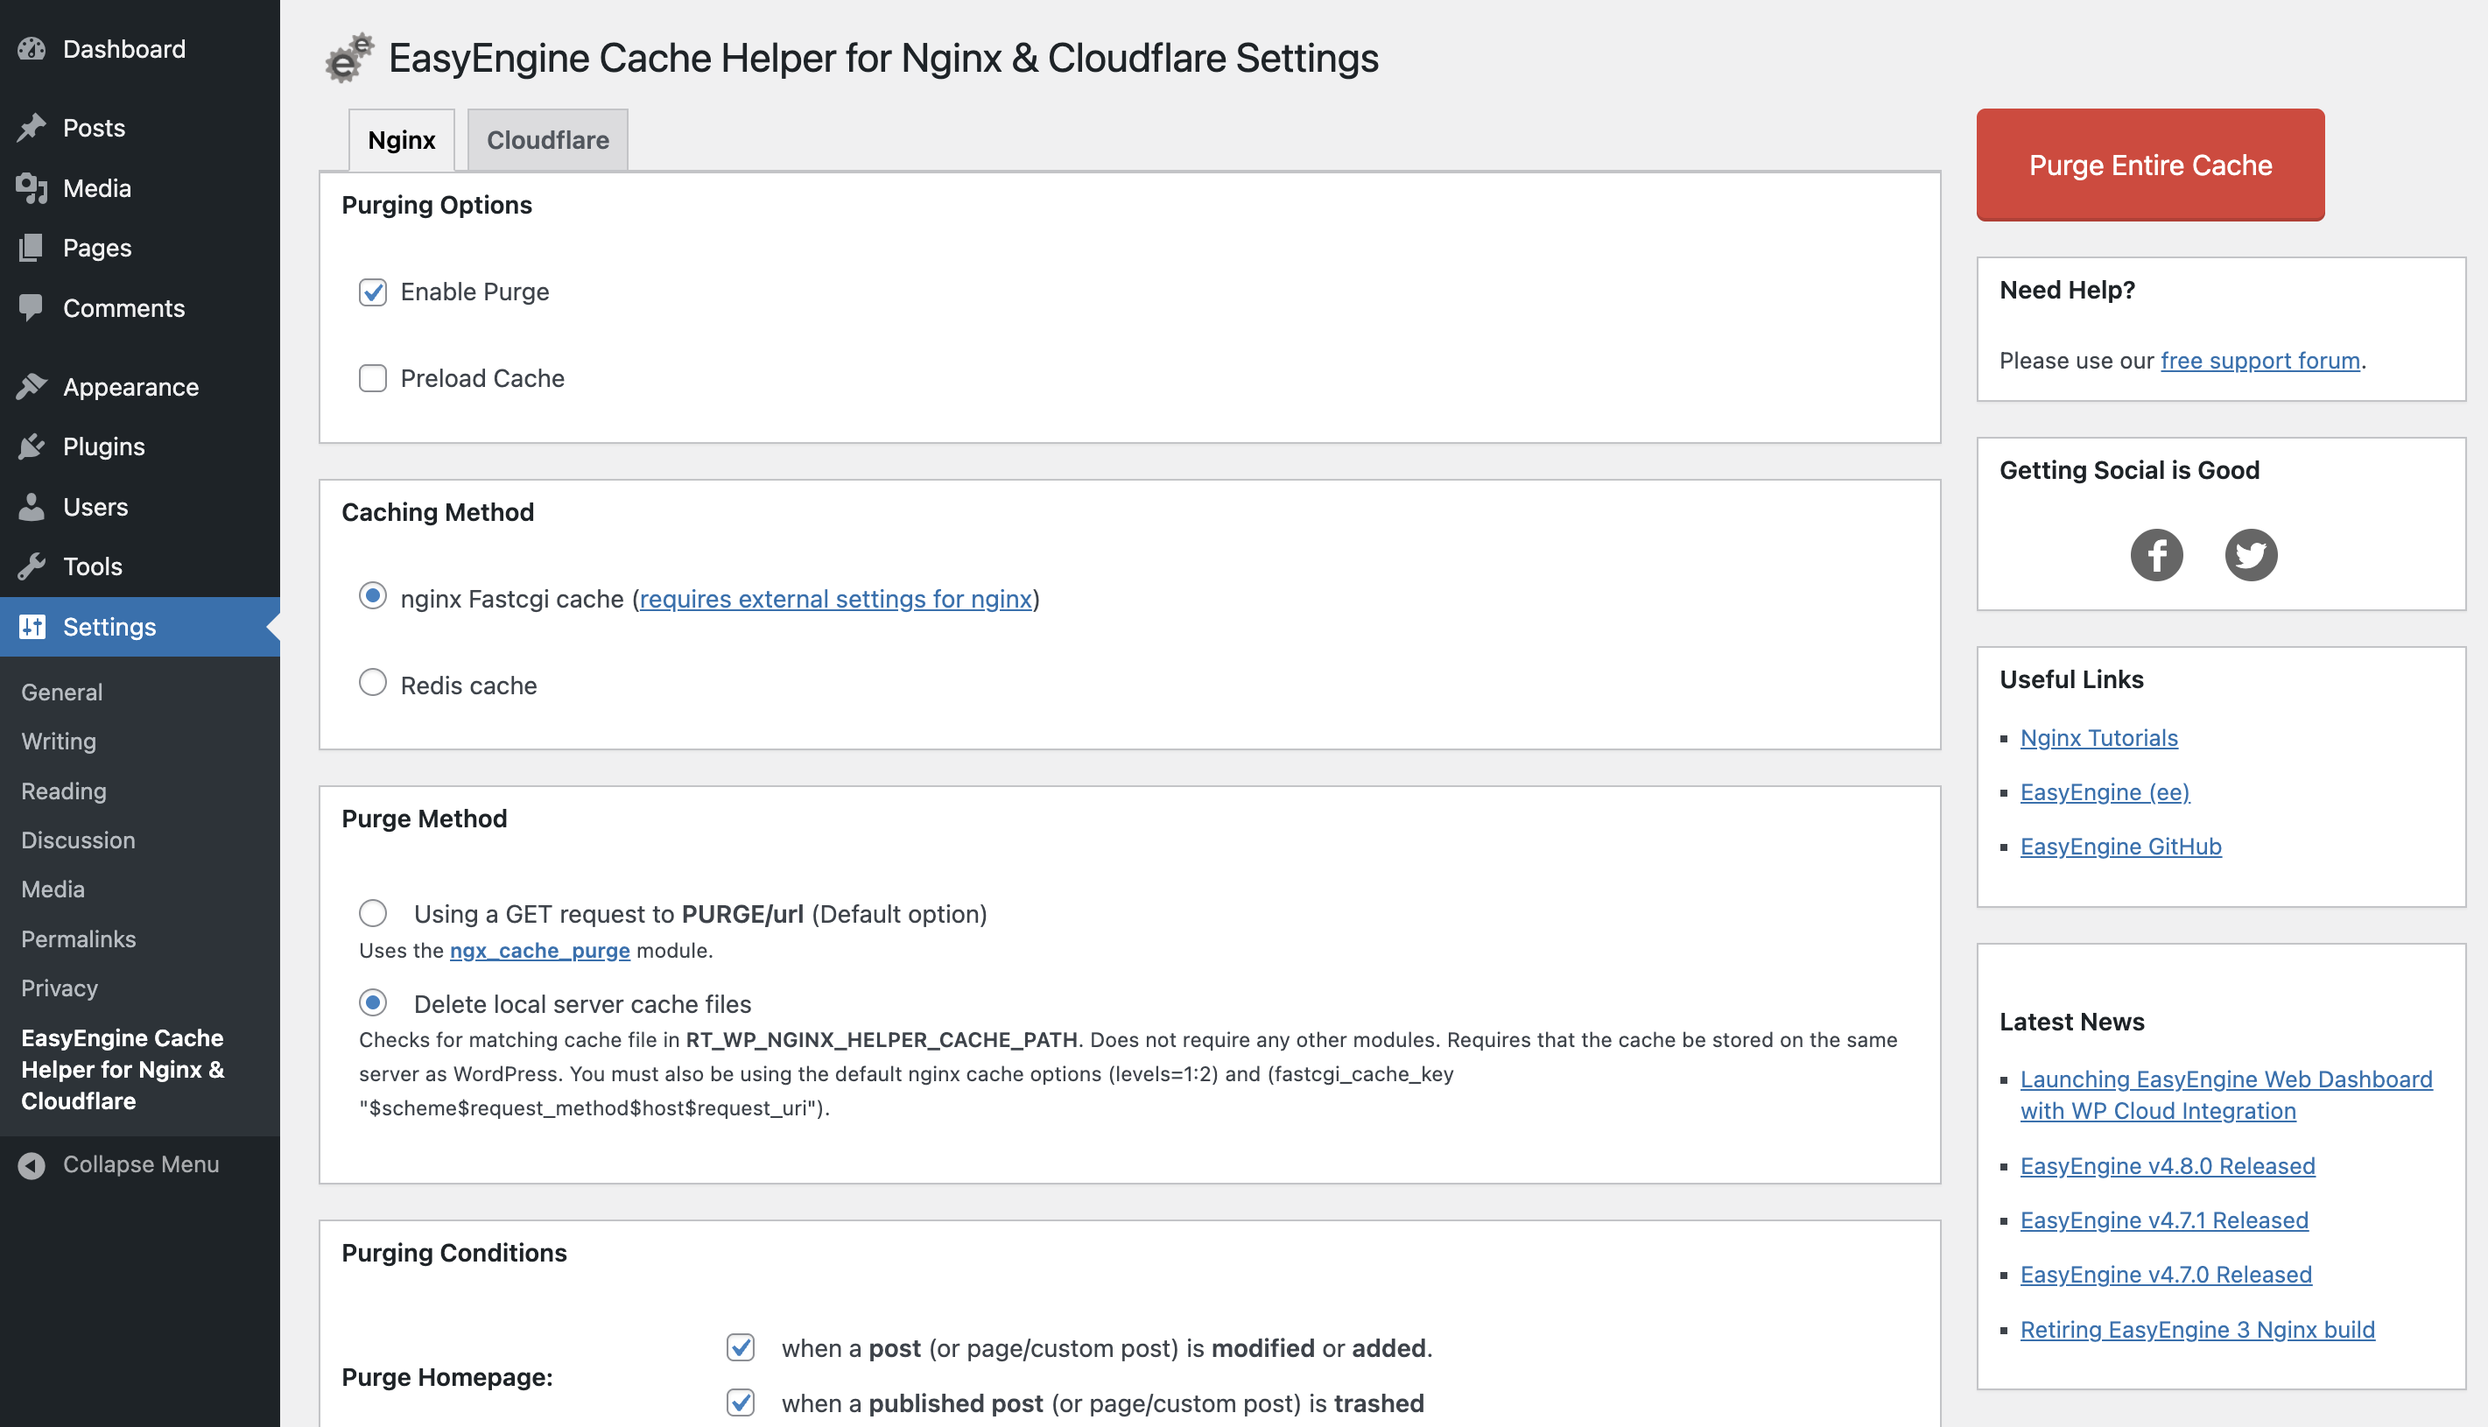
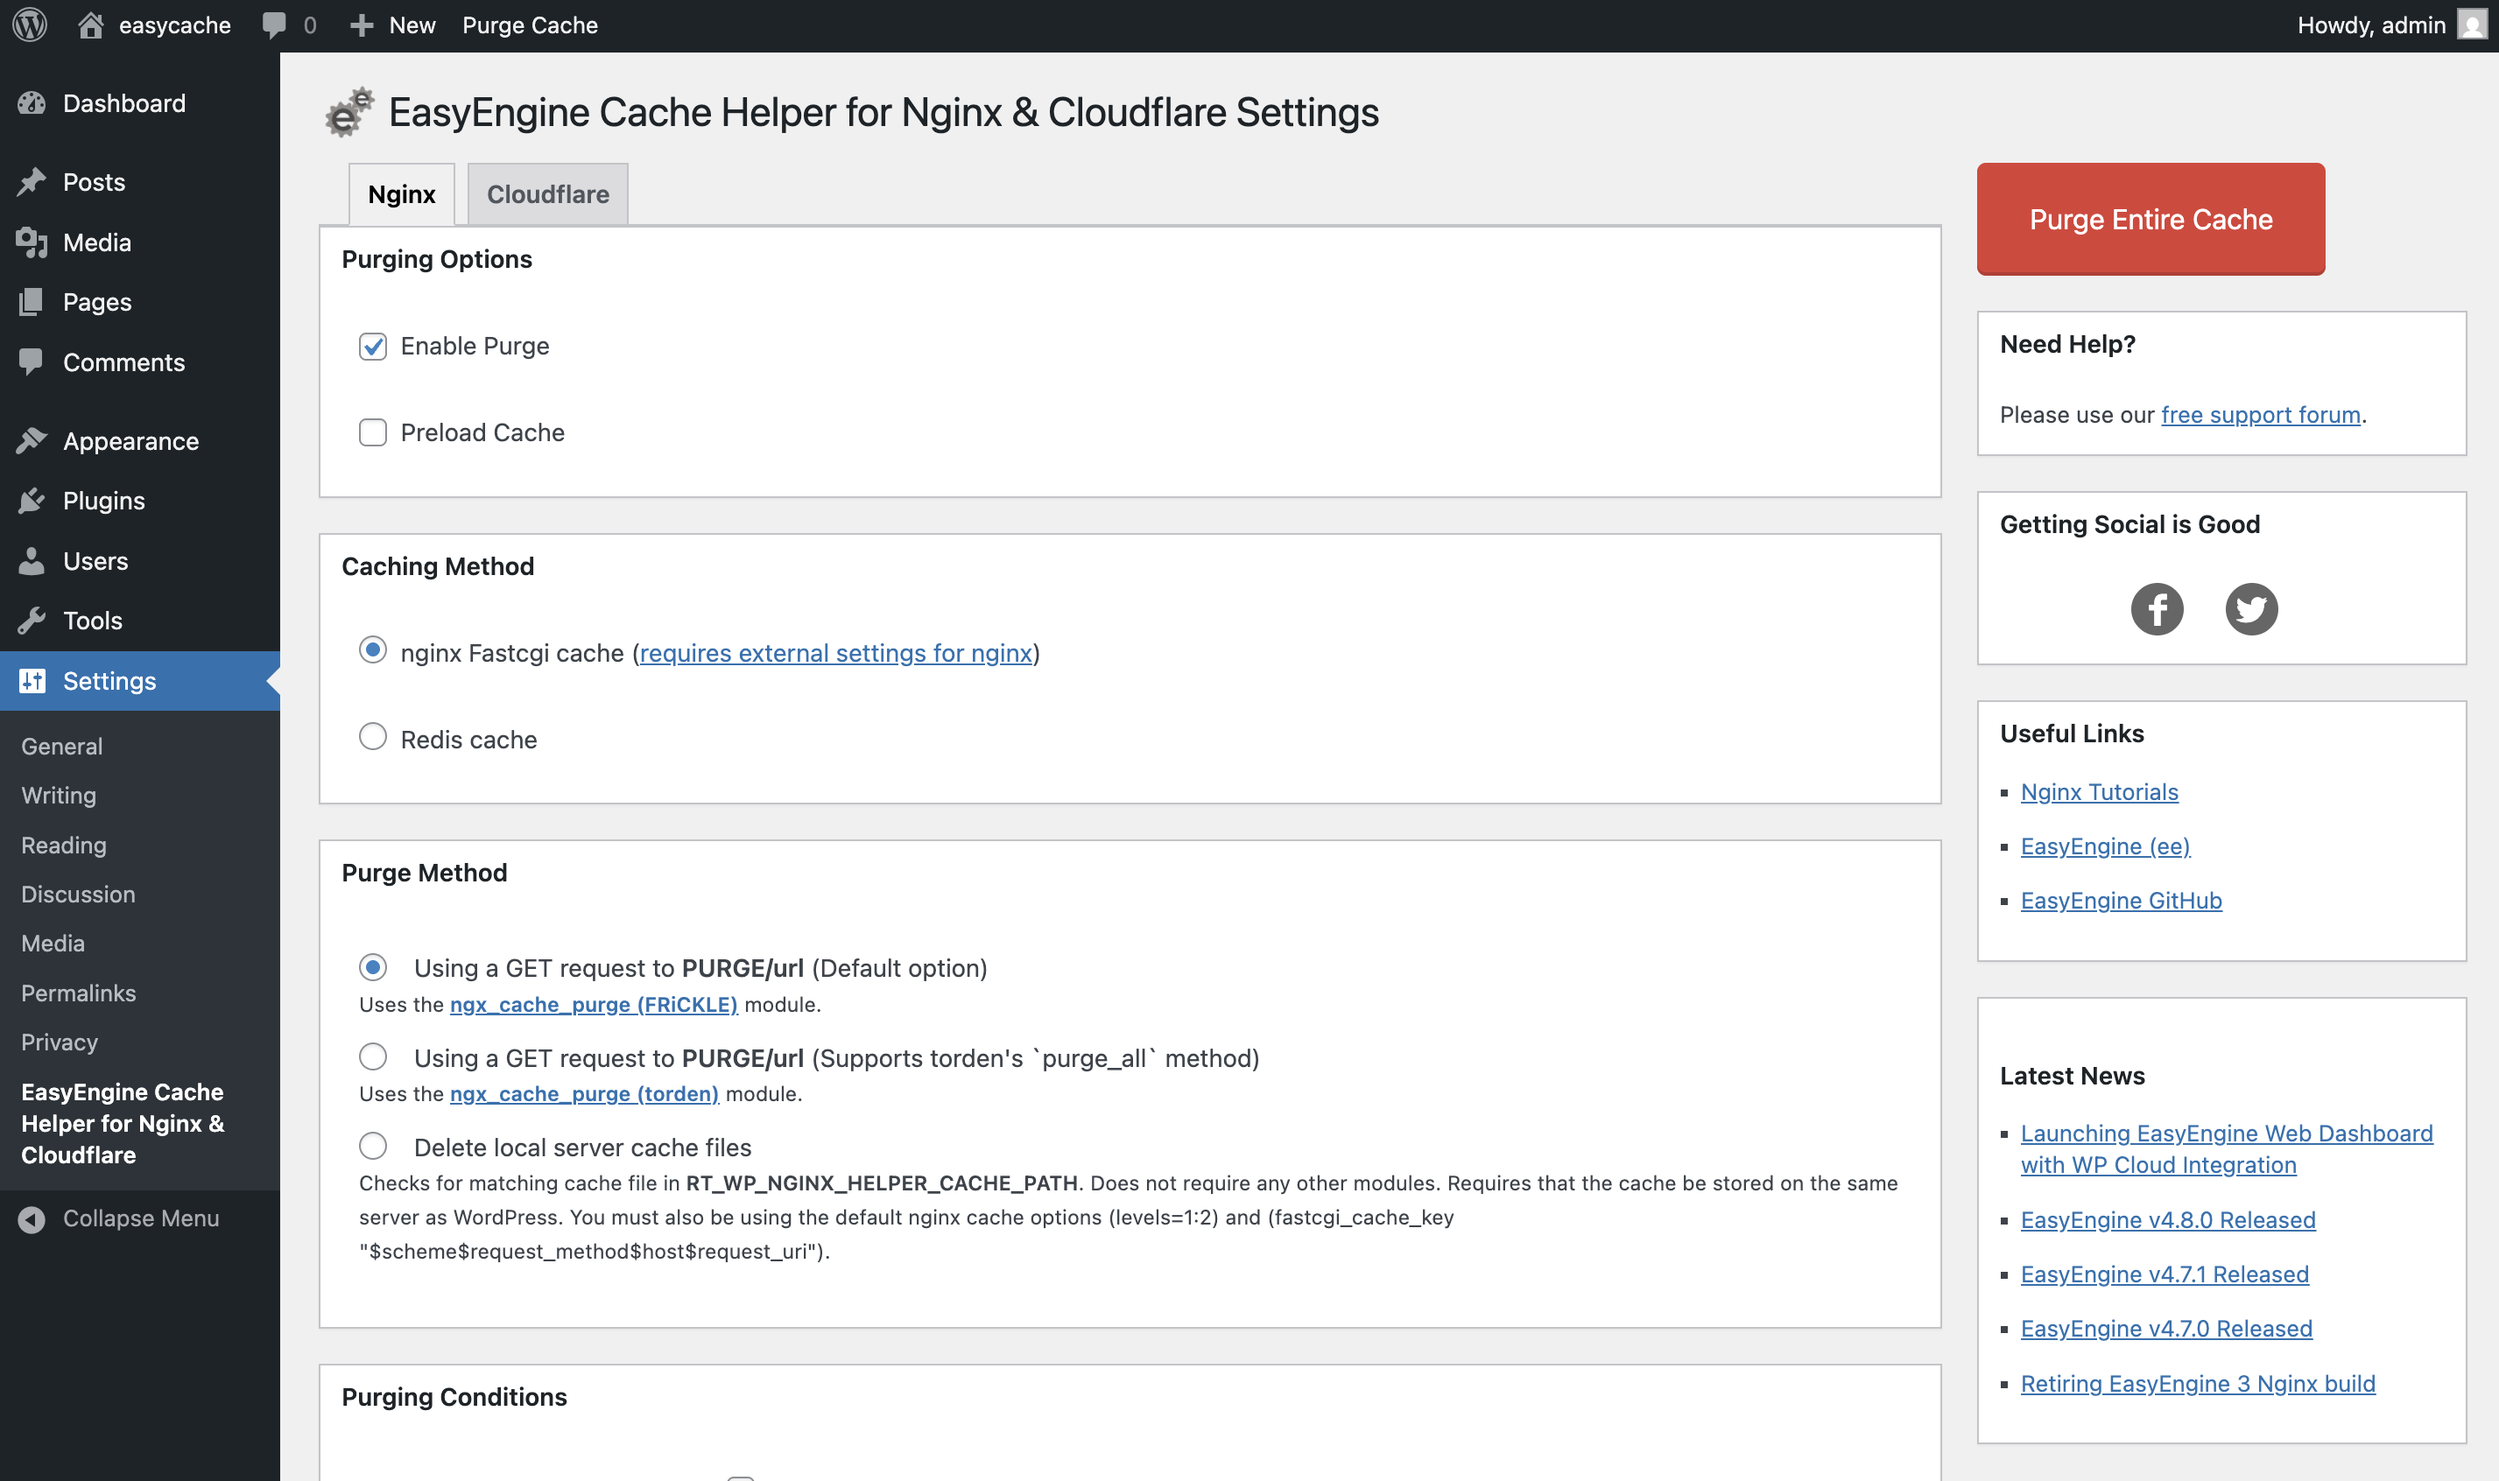
doc: update readme

diff --git a/README.md b/README.md
@@ -128,6 +128,10 @@ This ensures customers always see up-to-date stock status and product informatio
 
 Note: This option will only be visible if WooCommerce is active.
 
+**Q. What are the two different options for ngx_cache_purge module?**
+
+We have added support for two versions of the ngx_cache_purge module. The module developed by FRiCKLE is the original implementation that we have supported for a long time. We have now added support for a fork of the module developed by torden, which introduces Nginx module-level wildcard-based purging to help improve performance up to a certain level. You can purge it directly using the following format: `https://example.com/*` with the PURGE method, which will purge the cache of all descendants.
+
 ### FAQ - Nginx Redis Cache ###
 
 **Q. Can I override the redis hostname, port and prefix?**
